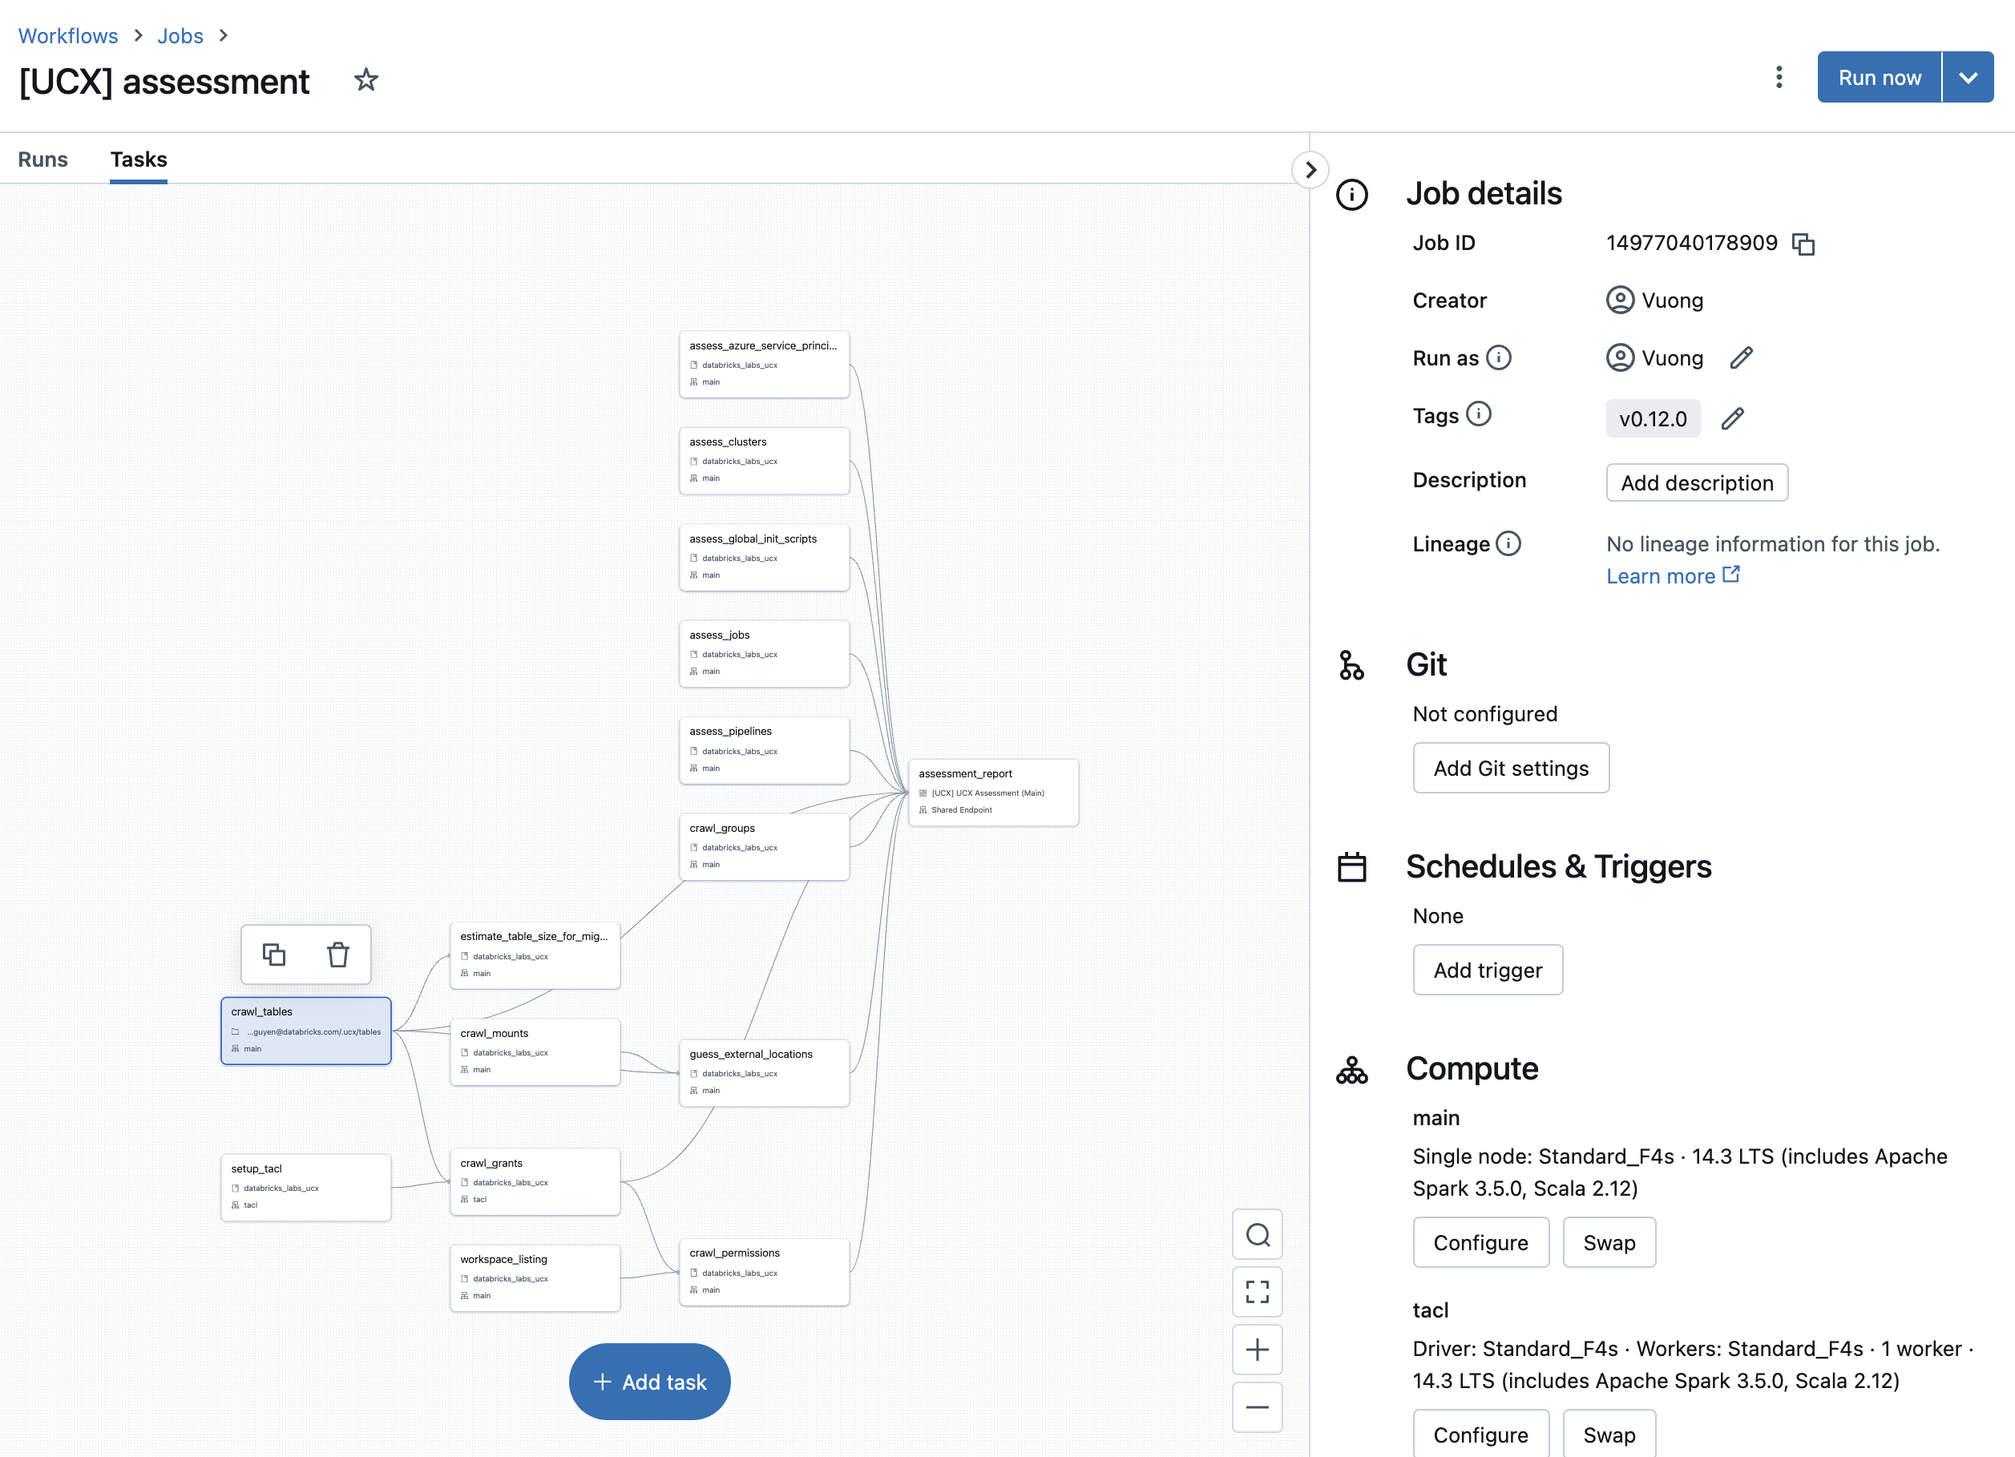
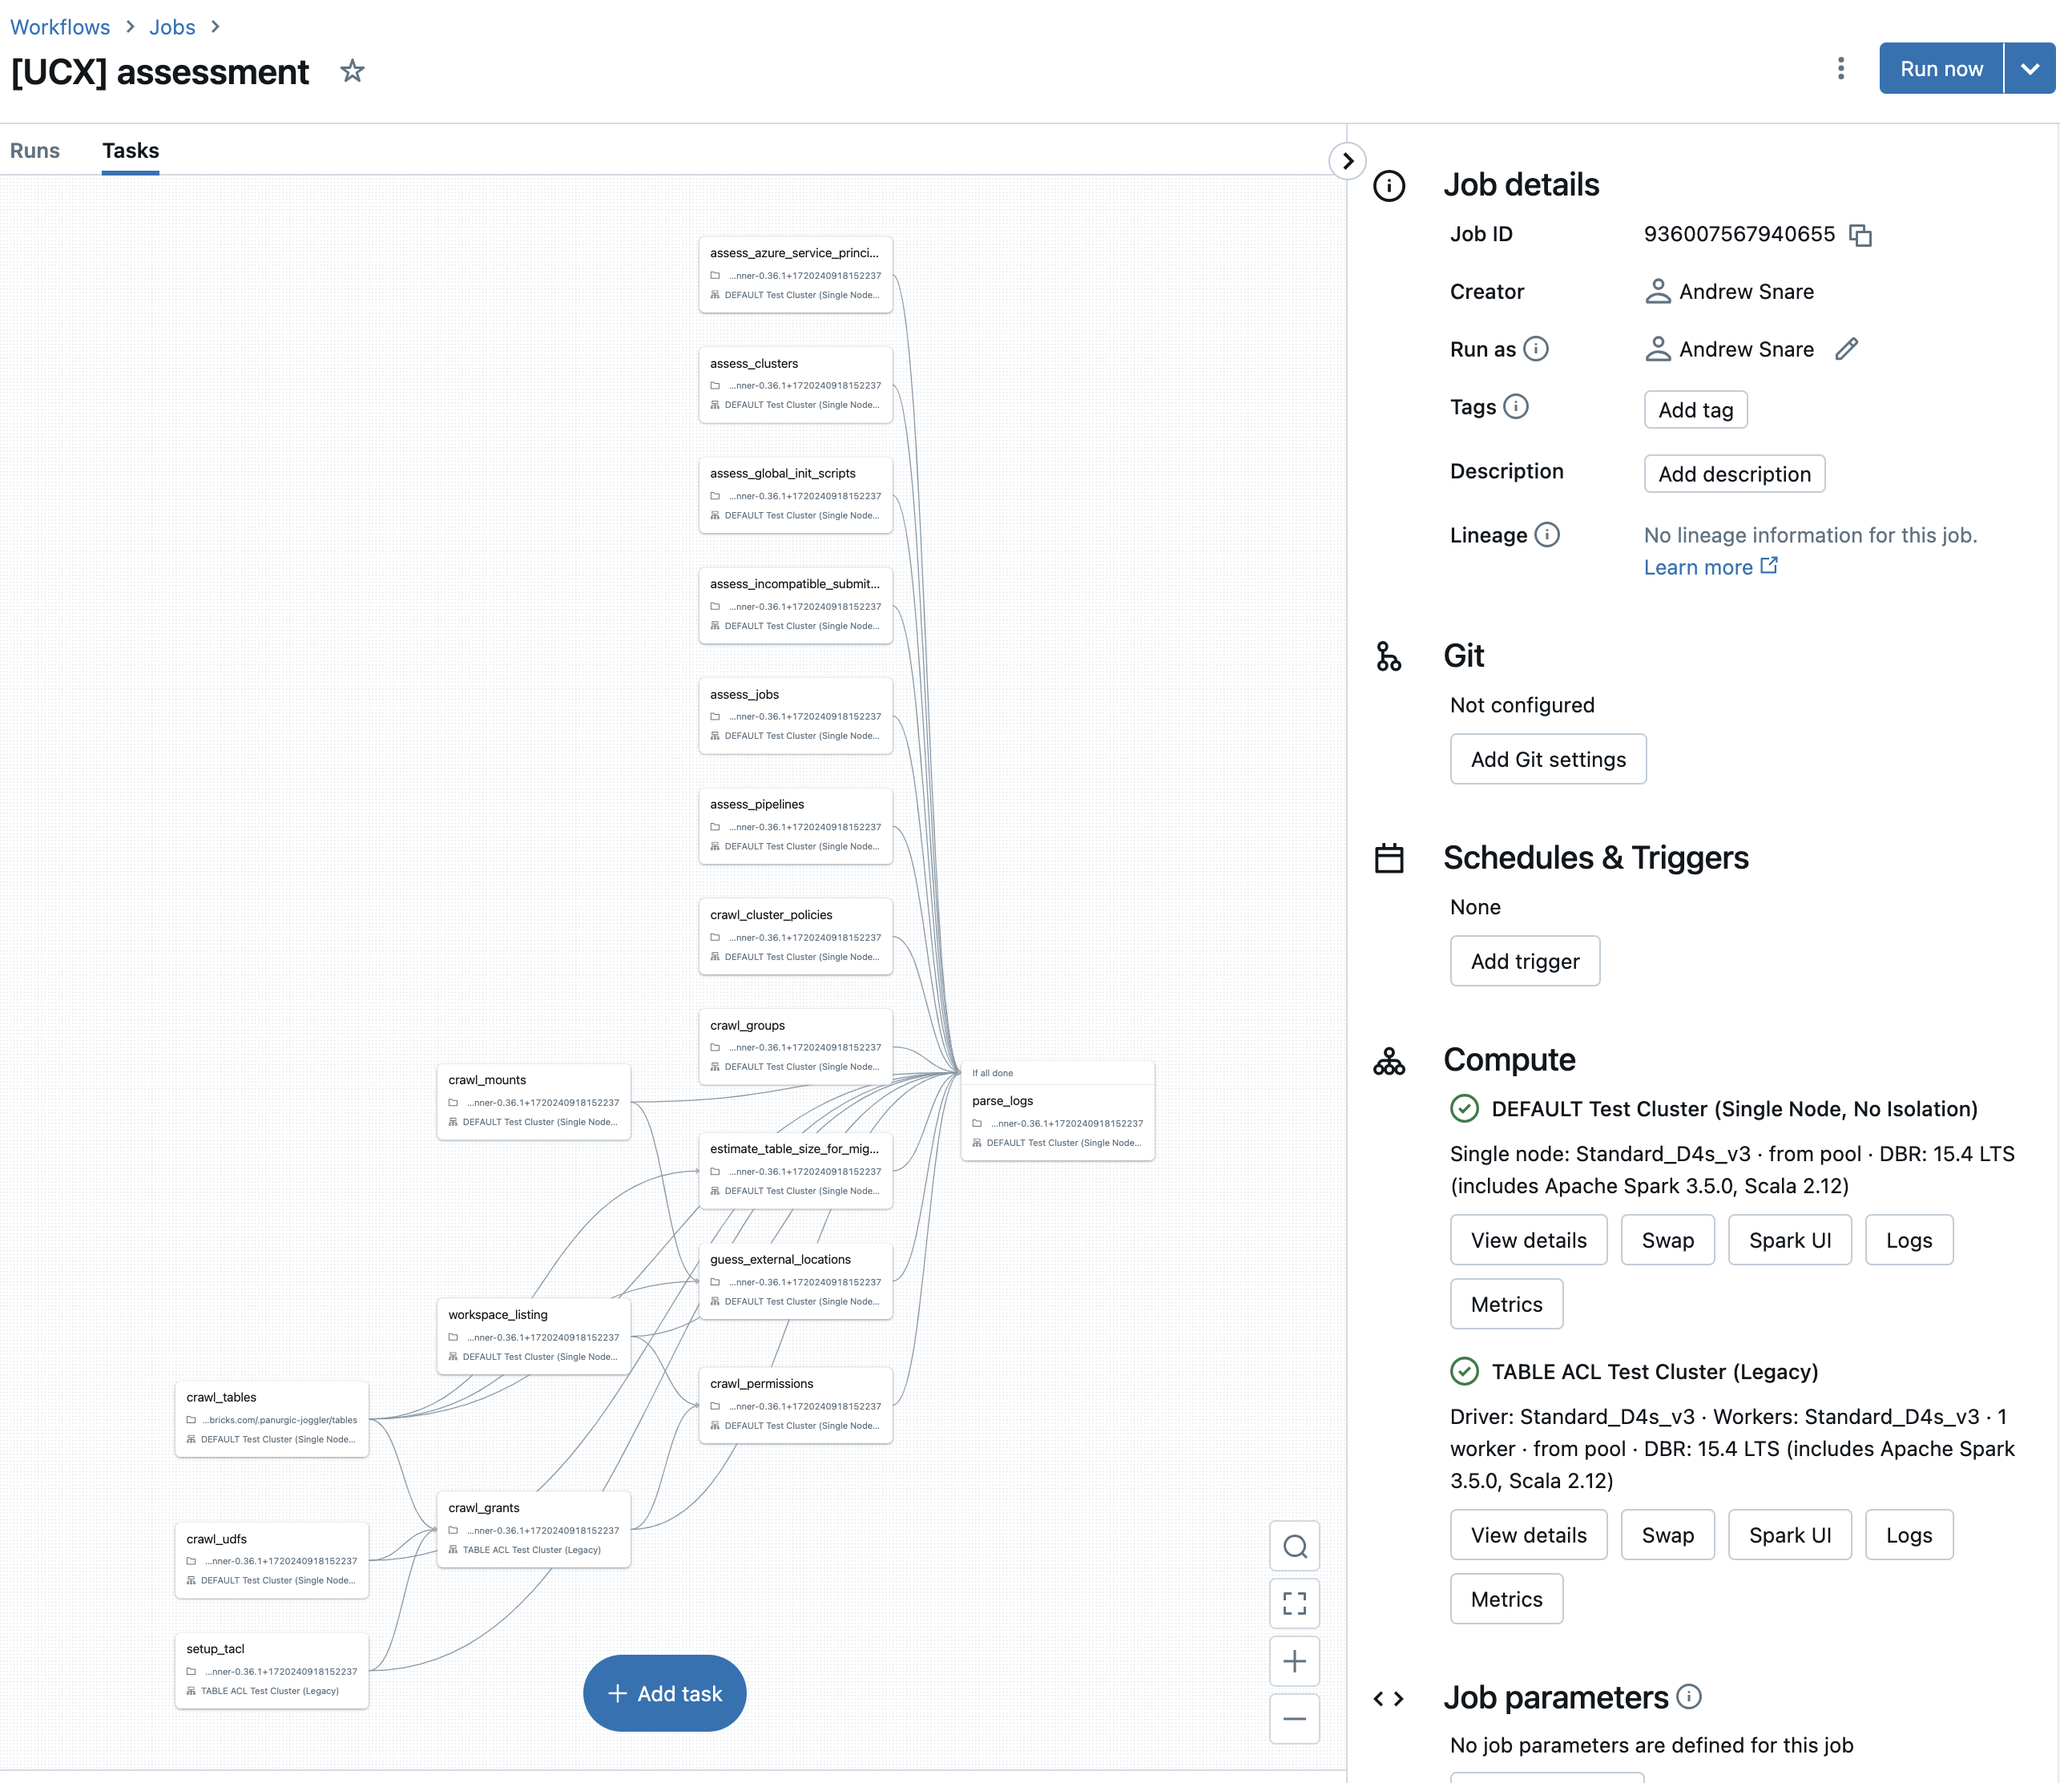
Update assessment workflow documentation to cover the 'crawl_udfs' task.

diff --git a/README.md b/README.md
@@ -366,16 +366,17 @@ the assessment workflow can be executed in parallel or sequentially, depending o
 The output of each task is stored in Delta tables in the `$inventory_database` schema, that you specify during [installation](#install-ucx),
 which can be used for further analysis and decision-making through the [assessment report](docs/assessment.md).
 
-1. `crawl_tables`: This task scans all tables in the Hive Metastore of the current workspace and persists their metadata in a Delta table named `$inventory_database.tables`. This metadata includes information such as the database name, table name, table type, and table location. This task is used for assessing which tables cannot be easily migrated to Unity Catalog.
-2. `crawl_grants`: This task scans the Delta table named `$inventory_database.tables` and issues a `SHOW GRANTS` statement for every object to retrieve the permissions assigned to it. The permissions include information such as the principal, action type, and the table it applies to. This task persists the permissions in the Delta table `$inventory_database.grants`.
-3. `estimate_table_size_for_migration`: This task scans the Delta table named `$inventory_database.tables` and locates tables that cannot be synced. These tables will have to be cloned in the migration process. The task assesses the size of these tables and creates the `$inventory_database.table_size` table to list these sizes. The table size is a factor in deciding whether to clone these tables.
-4. `crawl_mounts`: This task scans the workspace to compile a list of all existing mount points and stores this information in the `$inventory.mounts` table. This is crucial for planning the migration.
-5. `guess_external_locations`: This task determines the shared path prefixes of all the tables that utilize mount points. The goal is to identify the external locations necessary for a successful migration and store this information in the `$inventory.external_locations` table.
-6. `assess_jobs`: This task scans through all the jobs and identifies those that are not compatible with UC. The list of all the jobs is stored in the `$inventory.jobs` table.
-7. `assess_clusters`: This task scans through all the clusters and identifies those that are not compatible with UC. The list of all the clusters is stored in the `$inventory.clusters` table.
-8. `assess_pipelines`: This task scans through all the Pipelines and identifies those pipelines that have Azure Service Principals embedded in their configurations. A list of all the pipelines with matching configurations is stored in the `$inventory.pipelines` table.
-9. `assess_azure_service_principals`: This task scans through all the clusters configurations, cluster policies, job cluster configurations, Pipeline configurations, and Warehouse configuration and identifies all the Azure Service Principals who have been given access to the Azure storage accounts via spark configurations referred in those entities. The list of all the Azure Service Principals referred in those configurations is saved in the `$inventory.azure_service_principals` table.
-10. `assess_global_init_scripts`: This task scans through all the global init scripts and identifies if there is an Azure Service Principal who has been given access to the Azure storage accounts via spark configurations referred in those scripts.
+1. `crawl_tables`: This task scans all tables in the Hive Metastore of the current workspace and persists their metadata in a table named `$inventory_database.tables`. This metadata includes information such as the database name, table name, table type, and table location. This task is used for assessing which tables cannot be easily migrated to Unity Catalog.
+2. `crawl_udfs`: This task scans all UDFs in the Hive Metastore of the current workspace and persists their metadata in a table named `$inventory_database.udfs`. This task assesses whether the UDFs can be easily migrated to Unity Catalog.
+3. `crawl_grants`: This task scans all securable objects (including tables/views and UDFs) to determine the directly assigned permissions. The scanned permissions metadata includes information such as the principal, action type, and the securable object to which it applies. This task persists the permissions in the `$inventory_database.grants` inventory table.
+4. `estimate_table_size_for_migration`: This task scans the Delta table named `$inventory_database.tables` and locates tables that cannot be synced. These tables will have to be cloned in the migration process. The task assesses the size of these tables and creates the `$inventory_database.table_size` table to list these sizes. The table size is a factor in deciding whether to clone these tables.
+5. `crawl_mounts`: This task scans the workspace to compile a list of all existing mount points and stores this information in the `$inventory.mounts` table. This is crucial for planning the migration.
+6. `guess_external_locations`: This task determines the shared path prefixes of all the tables that utilize mount points. The goal is to identify the external locations necessary for a successful migration and store this information in the `$inventory.external_locations` table.
+7. `assess_jobs`: This task scans through all the jobs and identifies those that are not compatible with UC. The list of all the jobs is stored in the `$inventory.jobs` table.
+8. `assess_clusters`: This task scans through all the clusters and identifies those that are not compatible with UC. The list of all the clusters is stored in the `$inventory.clusters` table.
+9. `assess_pipelines`: This task scans through all the Pipelines and identifies those pipelines that have Azure Service Principals embedded in their configurations. A list of all the pipelines with matching configurations is stored in the `$inventory.pipelines` table.
+10. `assess_azure_service_principals`: This task scans through all the clusters configurations, cluster policies, job cluster configurations, Pipeline configurations, and Warehouse configuration and identifies all the Azure Service Principals who have been given access to the Azure storage accounts via spark configurations referred in those entities. The list of all the Azure Service Principals referred in those configurations is saved in the `$inventory.azure_service_principals` table.
+11. `assess_global_init_scripts`: This task scans through all the global init scripts and identifies if there is an Azure Service Principal who has been given access to the Azure storage accounts via spark configurations referred in those scripts.
 
 ![report](docs/assessment-report.png)
 
